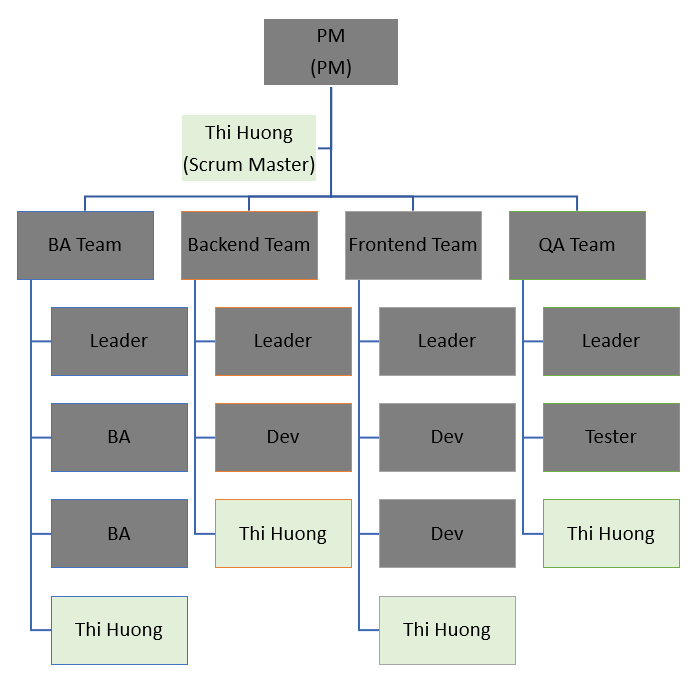
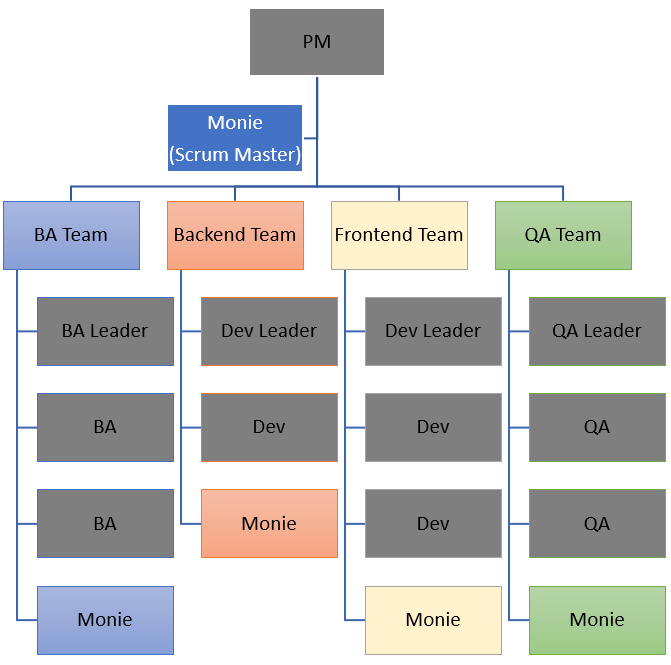
Add Monie name

diff --git a/src/app/pages/showcase/showcase.component.html b/src/app/pages/showcase/showcase.component.html
@@ -106,12 +106,12 @@
       <tr>
         <th scope="row">Source code</th>
         <td>
-          <a href="https://github.com/ThiHuongNguyen/portfolio-page" target="_blank">Go to Github</a>
+          <a href="https://github.com/MonieNguyen/portfolio-page-source-code" target="_blank">Go to Github</a>
         </td>
       </tr>
       <tr>
         <th scope="row">Final Product</th>
-        <td><a href="https://thihuongnguyen.github.io">Thi Huong Nguyen's Portfolio website</a> (The website you are viewing)</td>
+        <td><a href="https://monienguyen.github.io/">Monie Nguyen's Portfolio website</a> (The website you are viewing)</td>
       </tr>
     </tbody>
   </table>

diff --git a/src/app/pages/about-me/about-me.component.html b/src/app/pages/about-me/about-me.component.html
@@ -2,7 +2,7 @@
 <div class="row">
   <div class="col-lg-9">
     <p>
-      My name is Thi Huong Nguyen. I currently live in Adelaide, South
+      My name is Thi Huong (Monie) Nguyen. I currently live in Adelaide, South
       Australia.
     </p>
     <p>I am actively looking for a job in the software development field.</p>
@@ -36,7 +36,7 @@
   <div class="col-lg-3">
     <img
       src="./../../../assets/Images/avatar.jpg"
-      alt="Thi Huong Nguyen avatar"
+      alt="Monie Nguyen avatar"
     />
   </div>
 </div>

diff --git a/src/index.html b/src/index.html
@@ -2,7 +2,7 @@
 <html lang="en">
 <head>
   <meta charset="utf-8">
-  <title>Thi Huong Nguyen's Portfolio</title>
+  <title> Monie's Portfolio</title>
   <base href="/">
   <meta name="viewport" content="width=device-width, initial-scale=1">
   <link rel="icon" type="image/x-icon" href="favicon.ico">

diff --git a/src/app/app.component.ts b/src/app/app.component.ts
@@ -6,5 +6,5 @@ import { Component } from '@angular/core';
   styleUrls: ['./app.component.scss']
 })
 export class AppComponent {
-  title = 'Thi Huong Nguyen\'s Portfolio';
+  title = 'Monie Nguyen\'s Portfolio';
 }
